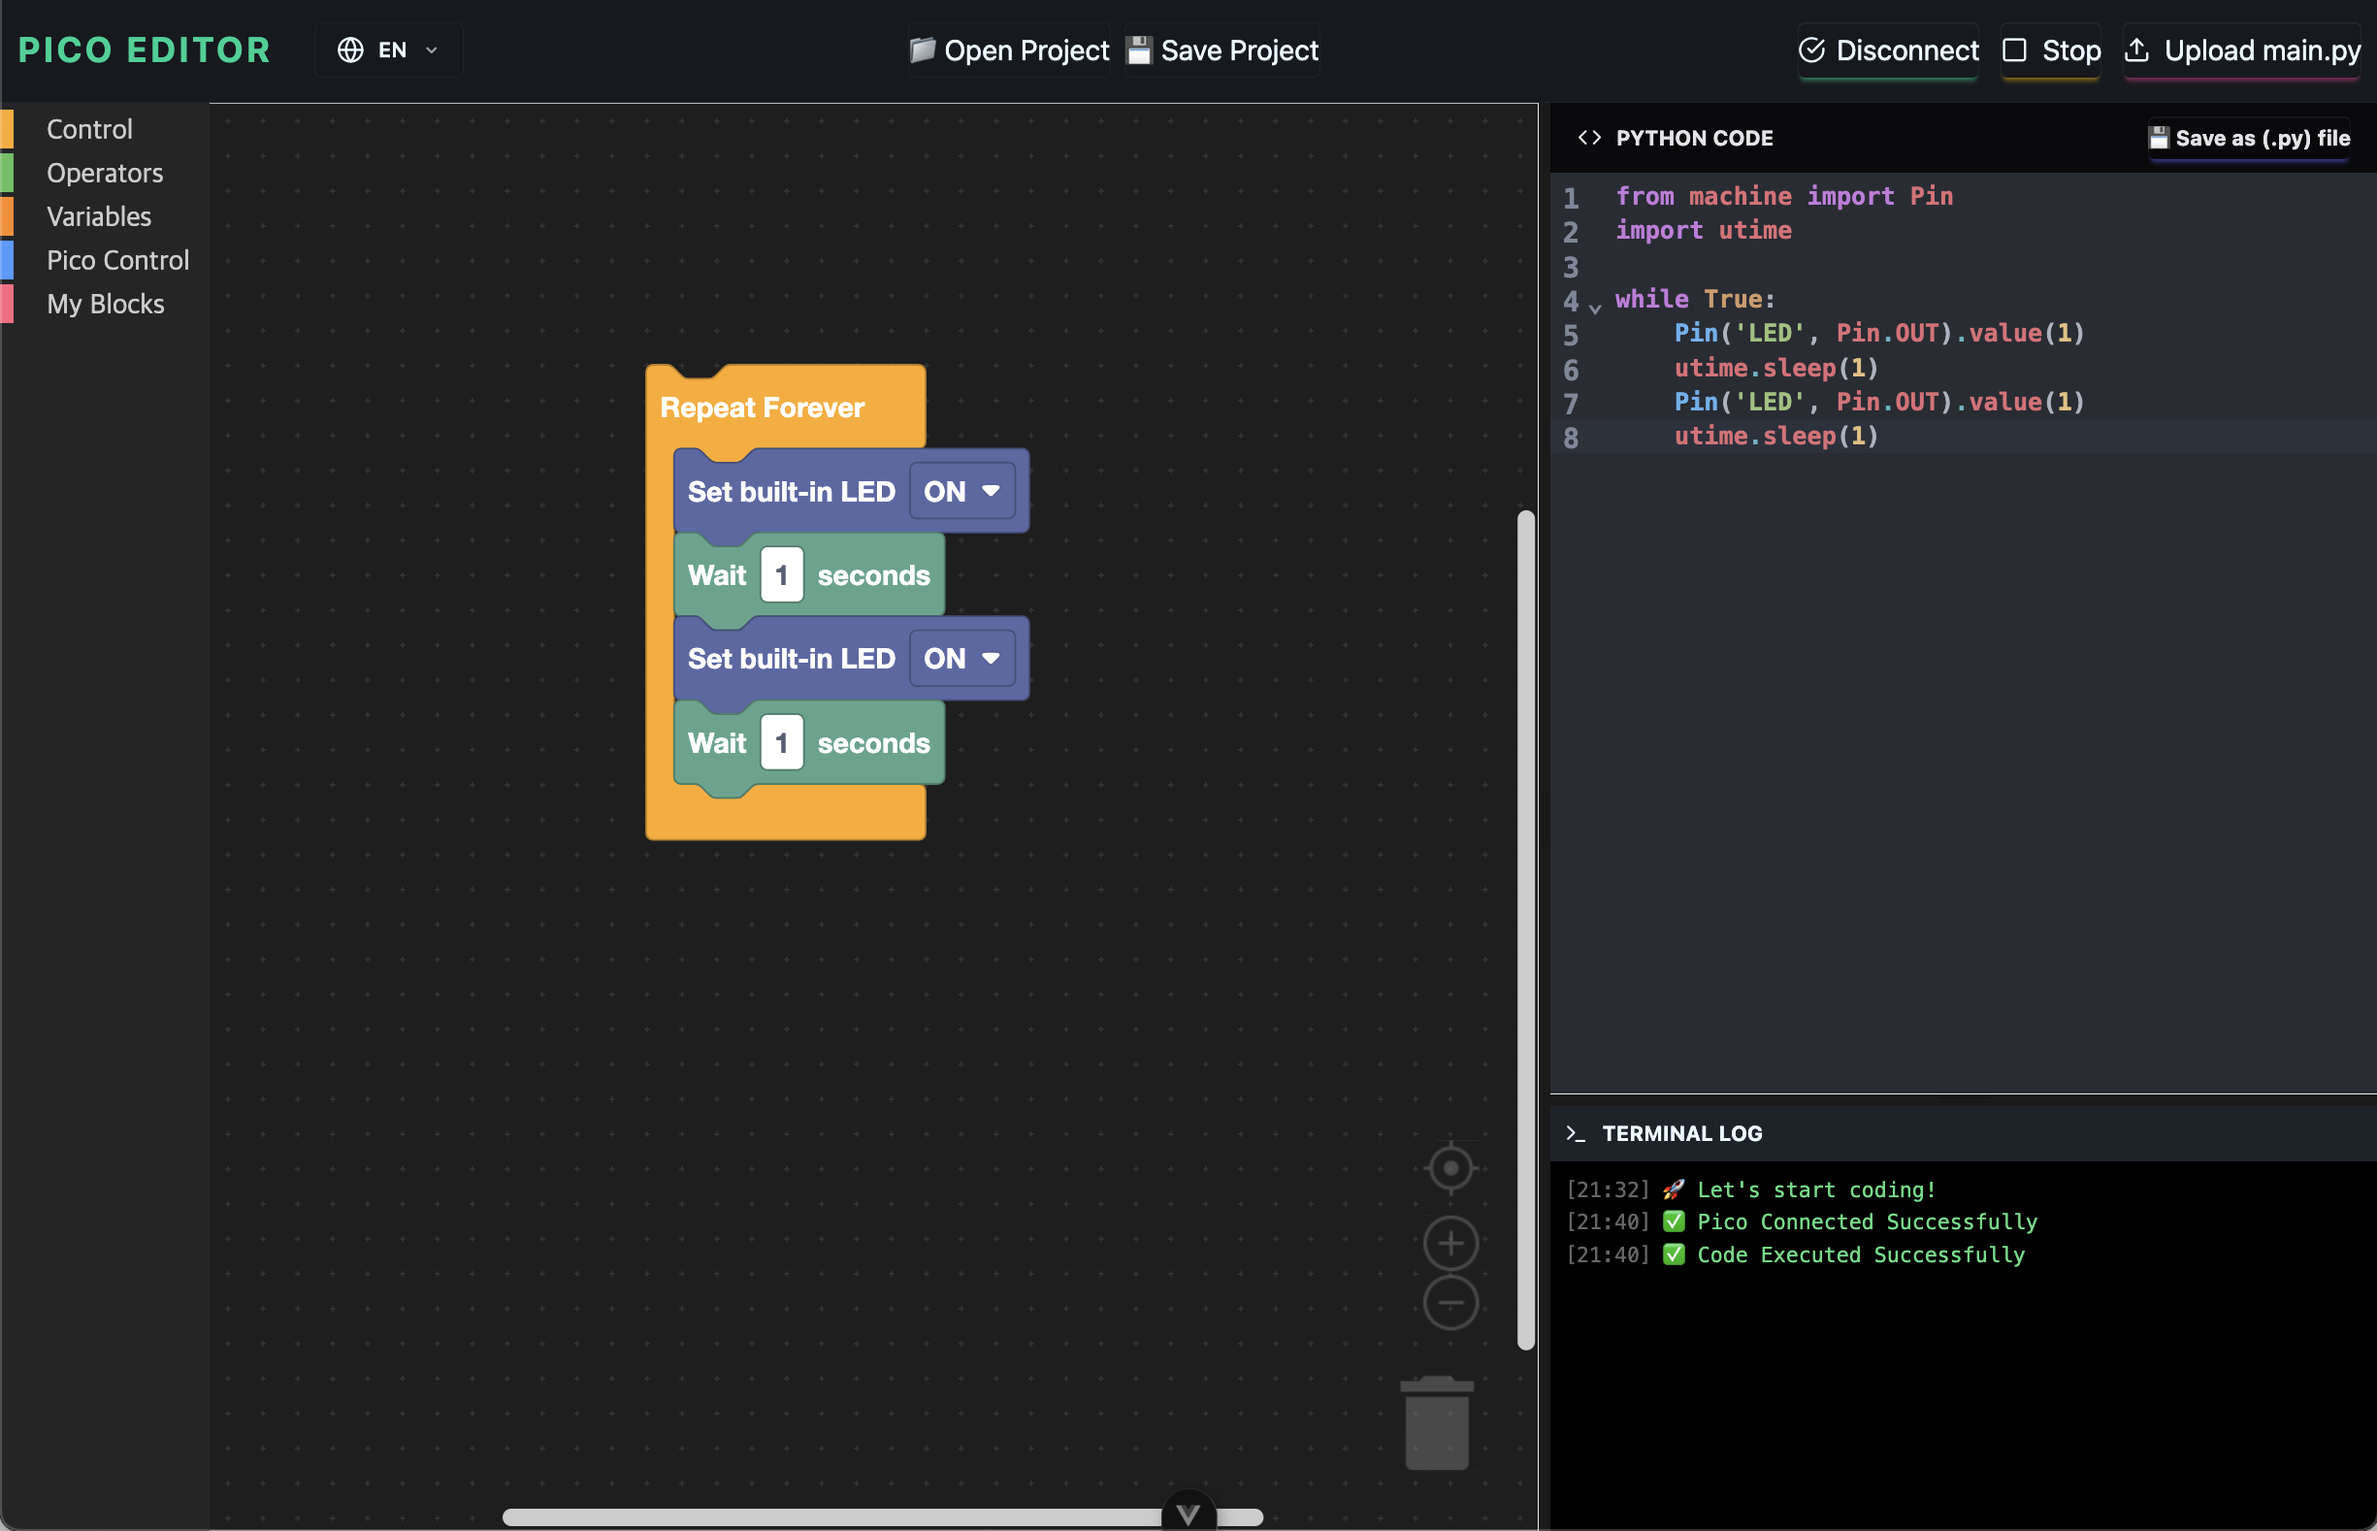
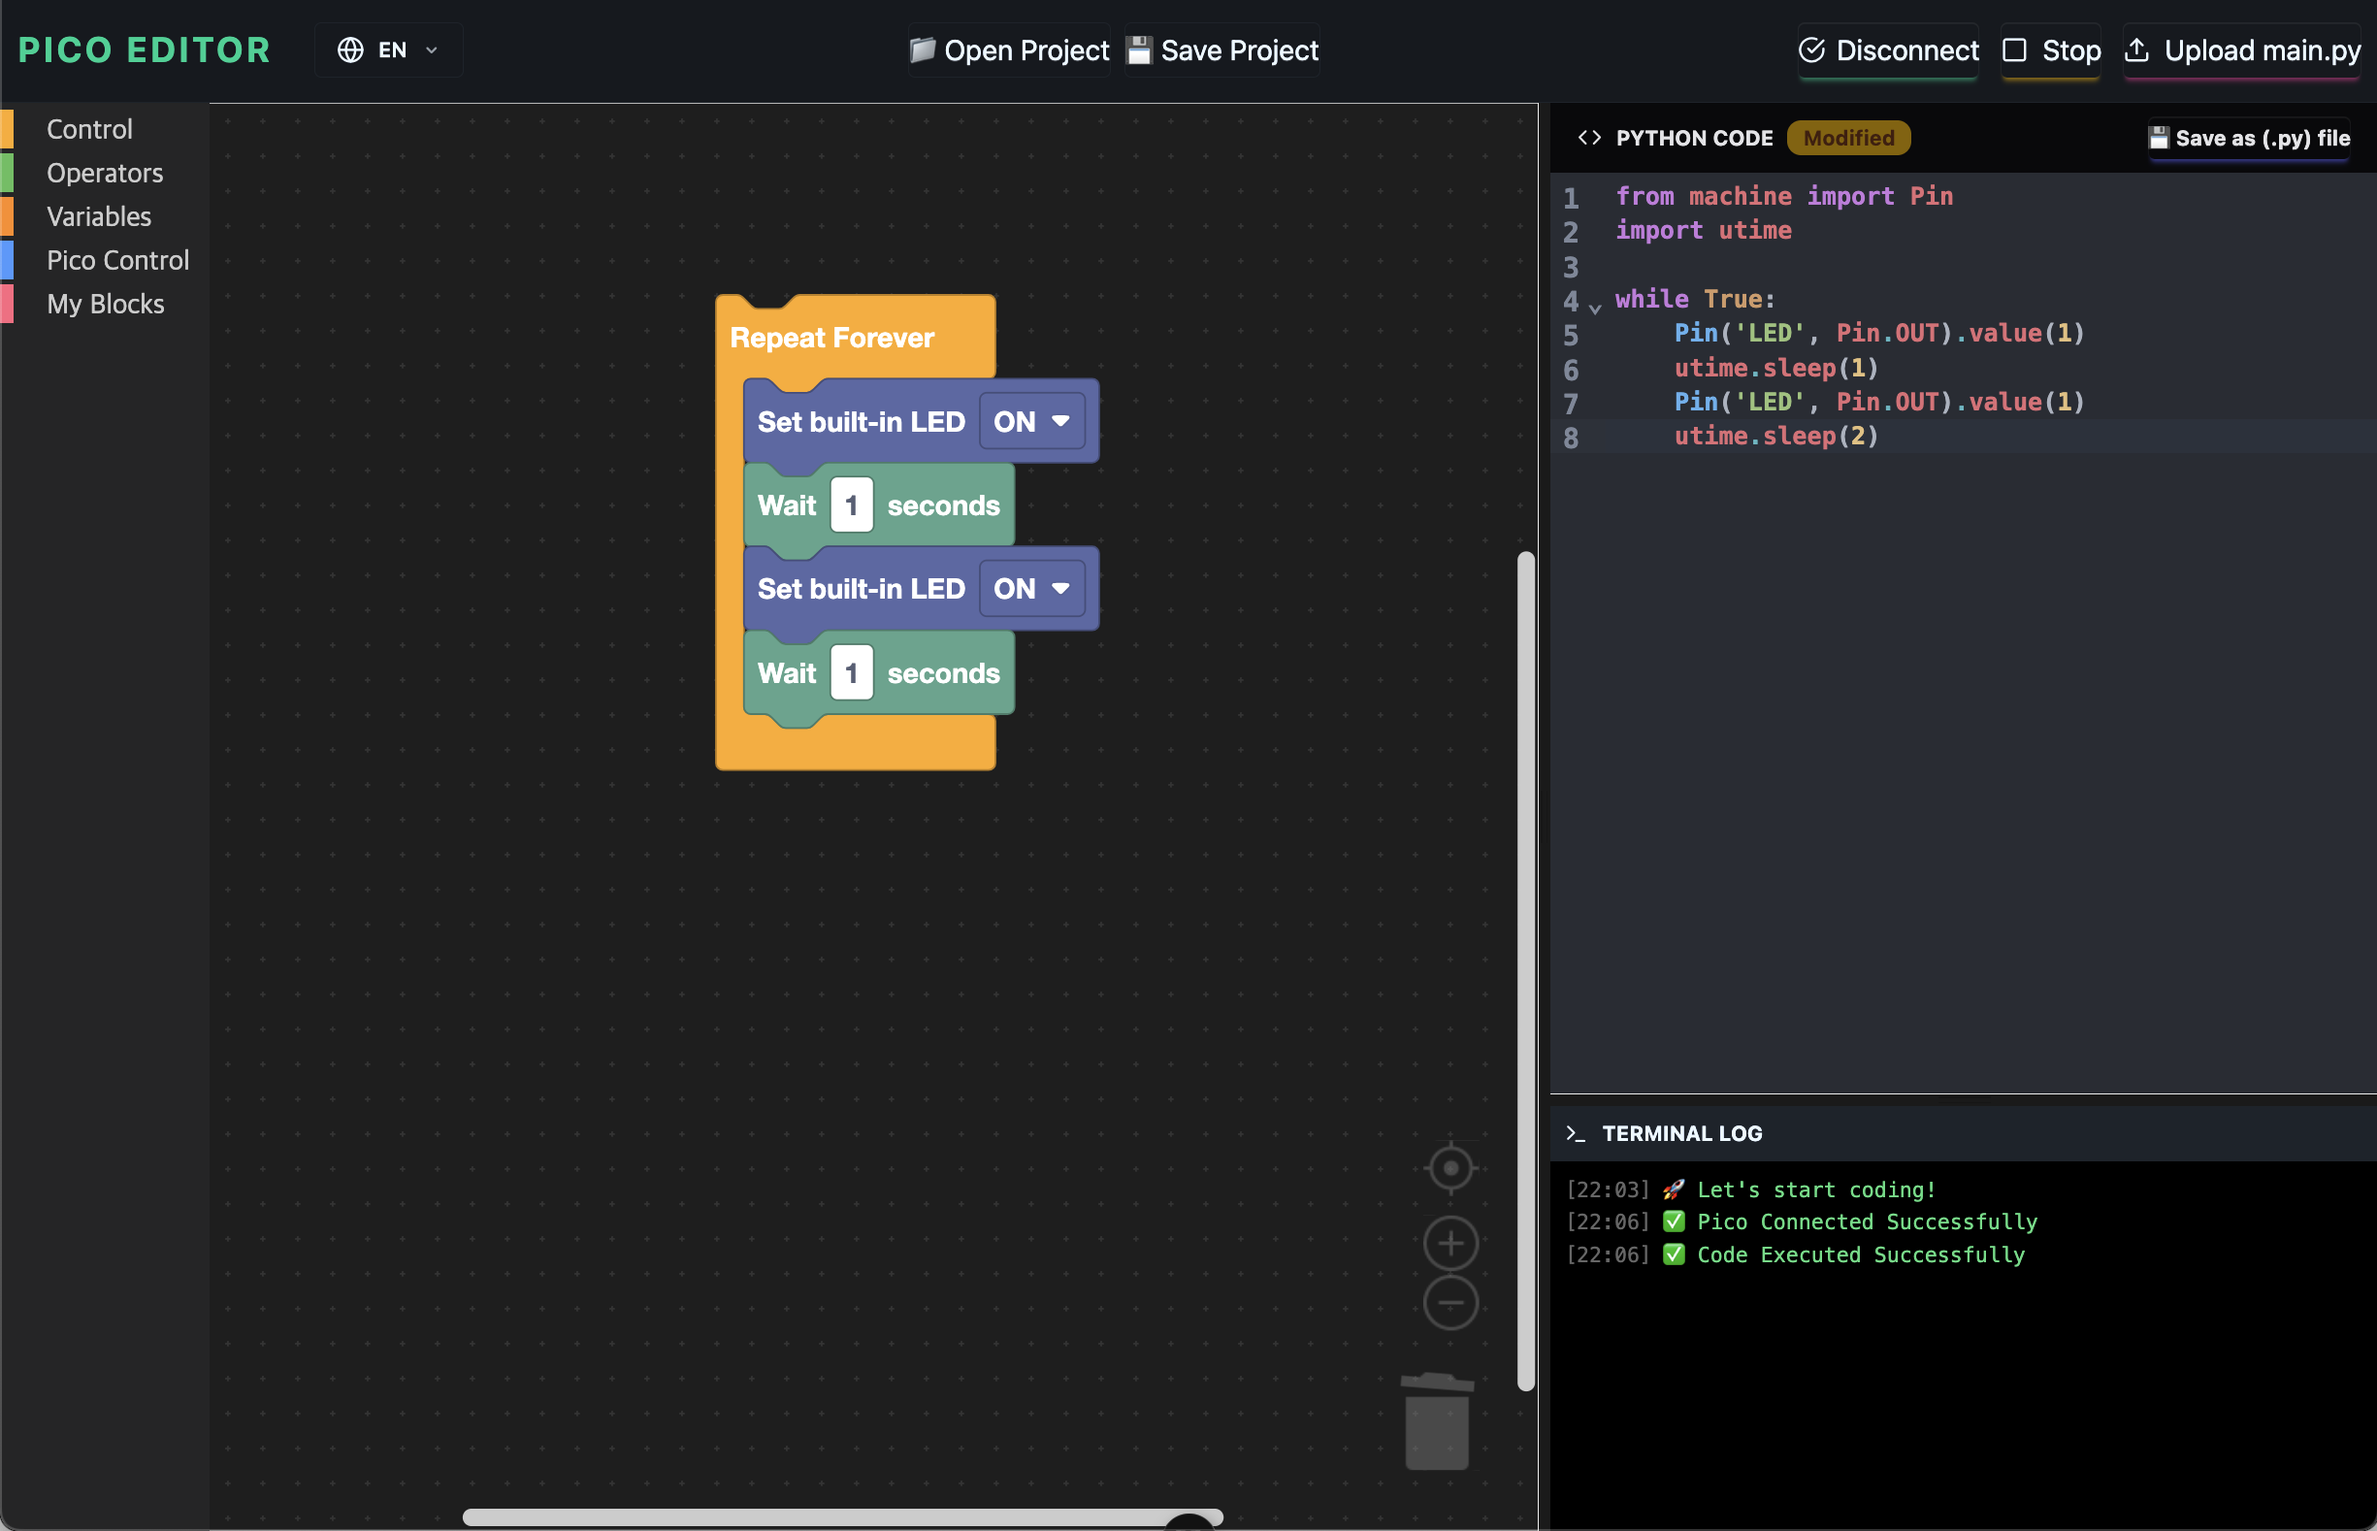
Fix a issue not saved to codeStore when codes modified in TextEditor

diff --git a/src/components/PythonCodeViewer.vue b/src/components/PythonCodeViewer.vue
@@ -18,7 +18,7 @@ let view: EditorView | null = null;
 const focusTextEditor = () => {
   if (view) {
     view.focus();
-    // 커서를 맨 끝으로 보내고 싶다면 아래 코드 추가
+    // 커서를 맨 끝으로 보내기
     view.dispatch({ selection: { head: view.state.doc.length, anchor: view.state.doc.length } });
   }
 };
@@ -68,10 +68,27 @@ const saveToFile = () => {
 
 // 스토어 업데이트 중인지 확인하는 플래그 (무한 루프 방지)
 let isUpdatingFromStore = false;
+// 에디터 -> 스토어 감시
+EditorView.updateListener.of((update) => {
+  if (update.docChanged && !isUpdatingFromStore) {
+    const currentCode = update.state.doc.toString();
+    
+    // [중요] 스토어를 업데이트하기 전에 플래그를 세우지 않으면 
+    // watch가 반응하면서 커서를 초기화할 수 있습니다.
+    isUpdatingFromStore = true; 
+    codeStore.setPythonCode(currentCode);
+    
+    // 다음 틱에서 플래그 해제
+    setTimeout(() => { isUpdatingFromStore = false; }, 0);
+  }
+}),
+
 // 스토어 변경시, 에디터 동기화 (블록 조작 시)
 watch(() => codeStore.pythonCode, (newCode) => {
-  if (codeStore.isManualEditing) return; //텍스트 수정 중에는 스토어에서 오는 값 무시
-  if (view) {
+  // 사용자가 에디터를 수정 중(ManualEditing)이거나 이미 업데이트 중이면 무시
+  if (isUpdatingFromStore || codeStore.isManualEditing) return;
+
+  if (view && view.state.doc.toString() !== newCode) {
     isUpdatingFromStore = true;
     view.dispatch({
       changes: { from: 0, to: view.state.doc.length, insert: newCode }
@@ -108,5 +125,34 @@ watch(() => codeStore.pythonCode, (newCode) => {
 :deep(.cm-content) {
   font-family: 'Fira Code', monospace;
   font-size: 14px;
+}
+/* 커서 스타일 (깜빡이는 선) */
+:deep(.cm-editor .cm-cursor) {
+  border-left: 3px solid #ffcc00 !important; /* 금색 커서 */
+  margin-left: -1.5px; /* 두꺼워진 만큼 정렬 조정 */
+}
+
+/* 현재 활성화된 줄(포커스 되었을 때) 배경색 */
+:deep(.cm-editor.cm-focused .cm-activeLine) {
+  background-color: rgba(255, 255, 255, 0.07) !important;
+}
+
+/* 현재 활성화된 줄의 줄번호 창(Gutter) 배경색 */
+:deep(.cm-editor.cm-focused .cm-activeLineGutter) {
+  background-color: rgba(255, 255, 255, 0.1) !important;
+  color: #ffffff !important;
+  font-weight: bold;
+}
+
+/* 줄번호 창 전체 스타일 */
+:deep(.cm-gutters) {
+  background-color: #282c34 !important;
+  border-right: 1px solid #3e4451 !important;
+  color: #4b5263 !important;
+}
+
+/* 선택 영역(드래그) 색상 */
+:deep(.cm-selectionBackground) {
+  background-color: rgba(100, 150, 255, 0.3) !important;
 }
 </style>

diff --git a/README.md b/README.md
@@ -8,8 +8,14 @@ Pico Editor - Both Block and Text based Coding Editor in Web/PC hybrid environme
 ## Web-based Demo
 [https://pico-editor.vercel.com](https://pico-editor.vercel.com)
 
-## Project Setup
+## Project Dev Env Setup
+### Get souce codes
+```sh
+git clone https://github.com/roboticsware/pico-editor
+cd pico-editor
+```
 
+### Install Dependancies
 ```sh
 npm install
 ```
